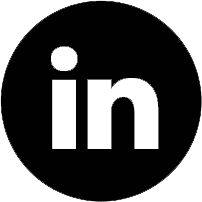
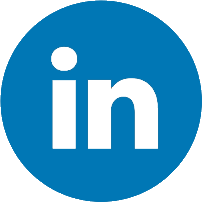
polish 3

diff --git a/src/main/resources/static/app/views/pages/about-us.html b/src/main/resources/static/app/views/pages/about-us.html
@@ -37,82 +37,93 @@
 </div>
     <div class="blitoTeamContainer row ">
         <div class="person col-xs-12 col-md-3 ">
-            <div class="blitoTeamPicturebeautifier3">
             <div class="blitoTeamPicturebeautifier">
                 <div class="blitoTeamPicturebeautifier2">
-                    <img src="../../../assets/img/sia.jpg" class="blitoTeamPictureHolder">
-                     
+                    <a target="_blank" href="https://www.linkedin.com/in/behnood-foroudi-28ba62131/">
+                        <img src="../../../assets/img/behnoud.jpg" class="blitoTeamPictureHolder"/>
+                        <img src="../../../assets/img/linkdin.png" class="linkdin "/></a>
                 </div>
                 </div>
-            </div>
-            <h4>سیاوششششش</h4>
-            <p>مدیریت اماکن مذهبی</p>
+            <h4>بهنود فرودی</h4>
+            <p>مدیر عامل</p>
         </div>
+
 
         <div class="person col-xs-12 col-md-3 ">
             <div class="blitoTeamPicturebeautifier">
                 <div class="blitoTeamPicturebeautifier2">
-                    <img src="../../../assets/img/sia.jpg" class="blitoTeamPictureHolder"/>
-                     
+
+                    <a target="_blank" href="https://www.linkedin.com/in/poorya-rooholamini-a36674127/">
+                        <img src="../../../assets/img/poorya.jpg" class="blitoTeamPictureHolder"/>
+                        <img src="../../../assets/img/linkdin.png" class="linkdin "/></a>
+
                 </div>
-            </div>
-            <h4>سیاوششششش</h4>
-            <p>مدیریت اماکن مذهبی</p>
+                </div>
+            <h4>پوریا روح الامینی</h4>
+            <p>مدیر کسب و کار</p>
         </div>
 
         <div class="person col-md-3 col-xs-12">
             <div class="blitoTeamPicturebeautifier">
                 <div class="blitoTeamPicturebeautifier2">
-                    <a>
-                    <img src="../../../assets/img/sia.jpg" class="blitoTeamPictureHolder"/>
+                    <a target="blank" href="https://www.linkedin.com/in/farzam-vatanzadeh/">
+                    <img src="../../../assets/img/farzam.jpg" class="blitoTeamPictureHolder"/>
                     <img src="../../../assets/img/linkdin.png" class="linkdin "/></a>
 
                 </div>
             </div>
-            <h4>سیاوششششش</h4>
-            <p>مدیریت اماکن مذهبی</p>
+            <h4>فرزام وطن زاده</h4>
+            <p>مدیر فنی</p>
         </div>
     </div>
     <div class="blitoTeamContainer2 marginRight0 row ">
 <div class="person col-md-3 col-xs-12">
         <div class="blitoTeamPicturebeautifier">
         <div class="blitoTeamPicturebeautifier2">
-        <img src="../../../assets/img/sia.jpg" class="blitoTeamPictureHolder"/>
-        
+            <a target="_blank" href="https://www.linkedin.com/in/soroush-yousefi-02783849/">
+                <img src="../../../assets/img/soroush.jpg" class="blitoTeamPictureHolder"/>
+                <img src="../../../assets/img/linkdin.png" class="linkdin "/></a>
+
         </div>
         </div>
-        <h4>سیاوششششش</h4>
-        <p>مدیریت اماکن مذهبی</p>
+        <h4>سروش یوسفی</h4>
+        <p> UX و UI  طراح و توسعه دهنده </p>
 </div>
 <div class="person col-md-3 col-xs-12">
         <div class="blitoTeamPicturebeautifier">
         <div class="blitoTeamPicturebeautifier2">
-        <img src="../../../assets/img/sia.jpg" class="blitoTeamPictureHolder"/>
-         
+            <a target="_blank" href="https://www.linkedin.com/in/siaalmo">
+                <img src="../../../assets/img/sia.jpg" class="blitoTeamPictureHolder"/>
+                <img src="../../../assets/img/linkdin.png" class="linkdin "/></a>
+
         </div>
         </div>
-        <h4>سیاوششششش</h4>
-        <p>مدیریت اماکن مذهبی</p>
+        <h4>سیاوش علی محمدی</h4>
+        <p> UX و UI  طراح و توسعه دهنده </p>
 </div>
 <div class="person col-md-3 col-xs-12">
         <div class="blitoTeamPicturebeautifier">
         <div class="blitoTeamPicturebeautifier2">
-        <img src="../../../assets/img/sia.jpg" class="blitoTeamPictureHolder"/>
-         
+            <a target="_blank" href="https://www.linkedin.com/in/hasti-sahabi-954060a4/">
+                <img src="../../../assets/img/hasti.jpg" class="blitoTeamPictureHolder"/>
+                <img src="../../../assets/img/linkdin.png" class="linkdin "/></a>
+
         </div>
         </div>
-        <h4>سیاوششششش</h4>
-        <p>مدیریت اماکن مذهبی</p>
+        <h4>هستی سحابی</h4>
+        <p> back end توسعه دهنده</p>
 </div>
         <div class="person col-md-3 col-xs-12">
             <div class="blitoTeamPicturebeautifier">
                 <div class="blitoTeamPicturebeautifier2">
-                    <img src="../../../assets/img/sia.jpg" class="blitoTeamPictureHolder"/>
-                     
+                    <a target="_blank" href="https://www.linkedin.com/in/yalda-jalilvand">
+                        <img src="../../../assets/img/sia.jpg" class="blitoTeamPictureHolder"/>
+                        <img src="../../../assets/img/linkdin.png" class="linkdin" /></a>
+
                 </div>
             </div>
-            <h4>سیاوششششش</h4>
-            <p>مدیریت اماکن مذهبی</p>
+            <h4> یلدا جلیلوند</h4>
+            <p>مدیر هنری</p>
         </div>
 
     </div>

diff --git a/src/main/resources/static/assets/css/custom.css b/src/main/resources/static/assets/css/custom.css
@@ -281,6 +281,82 @@ button.slick-next {
 .btn-blito:hover {
     box-shadow: none;
 }
+.socialmedia{
+    background: rgb(252, 183, 49);
+    border-radius: 50%;
+    width:35px;
+    float:right;
+    height:35px !important;
+    margin-right:5px;
+    margin-left:5px;
+    margin-bottom: 4px;
+}
+/*.socialmedia:hover{*/
+    /*animation:socialmediaanimation 2s infinite ease-in-out both;*/
+/*}*/
+.instagram{
+     background: radial-gradient(circle farthest-corner at 32% 106%, rgb(255, 225, 125) 0%, rgb(255, 205, 105) 10%, rgb(250, 145, 55) 28%, rgb(235, 65, 65) 42%, transparent 82%), linear-gradient(135deg, rgb(35, 75, 215) 12%, rgb(195, 60, 190) 58%);
+     border-radius: 50%;
+     width:35px;
+     float:right;
+     height:35px !important;
+     opacity:0;
+     transition: .5s;
+ }
+.telegram{
+    background:#2ca5e0 ;
+    border-radius: 50%;
+    width:35px;
+    float:right;
+    height:35px !important;
+    opacity:0;
+    transition: .5s;
+}
+.aparat{
+    background:#ed145b ;
+    border-radius: 50%;
+    width:35px;
+    float:right;
+    height:35px !important;
+    opacity:0;
+    transition: .5s;
+}
+.twitter{
+    background:#3fcdfd ;
+    border-radius: 50%;
+    width:35px;
+    float:right;
+    height:35px !important;
+    opacity:0;
+    transition: .5s;
+}
+
+.socialmedia:hover span{
+    opacity:1;
+}
+.socialmedia:hover img{
+    filter:invert(100%);
+}
+/*@keyframes socialmediaanimation{*/
+    /*0% {transform:scale(1);}*/
+    /*50% {transform: scale(1.1);}*/
+    /*100% {transform: scale(1);}*/
+/*}*/
+.socialmediaHolder{
+    margin-bottom:15px;
+    border-top: 1px solid #444;
+    padding-top:15px;
+    padding-bottom: 0px;
+}
+.socialmediaHolder div{
+    width:200px;
+}
+.socialmedia img{
+    height: 70%;
+    margin-top: -56px;
+    margin-right: 5px;
+    transition: .5s;
+}
 .searchBarHomePage {
     margin: 0 auto;
 }
@@ -1586,7 +1662,7 @@ dir-pagination-controls ul {
 /*--------------------------------------*/
 footer {
     background-color:#303030;
-    min-height:350px;
+    /*min-height:350px;*/
     bottom: 0 !important;
 }
 footer h6 {
@@ -1741,6 +1817,7 @@ a{
 .eventListHeaderContainer{
     height: 110px;
     background:rgba(0,0,0,.5);
+    box-shadow: 2px 2px 5px #222;
 }
 /*#eventListOther:not(:active),*/
 /*#eventListCinema:not(:active),*/
@@ -2331,7 +2408,7 @@ a{
     opacity: 0;
     background:#444;
     border-radius: 50%;
-    border:3px solid rgb(252, 183, 49);
+    border:3px solid #fff;
     transition: .4s;
     margin-top:-120px;
     margin-left:70px;
@@ -2343,7 +2420,10 @@ a{
     margin-right: 12.5%;
 }
 .marginRight0{
-    margin-right: 0px;
+    margin-right: 0px !important;
+}
+.marginLeft0{
+    margin-left:0px !important;
 }
 .aboutUsText{
     width:70%;

diff --git a/src/main/resources/static/index.html b/src/main/resources/static/index.html
@@ -156,13 +156,33 @@
             <p><i class="fa fa-file-text-o"></i><a href="/term-of-use" class="footerAnchor footerP">قوانین بلیتو</a></p>
             <p><i class="fa fa-user-secret"></i><a href="/privacy-policy" class="footerAnchor footerP"> حریم خصوصی</a></p>
         </div>
+        <div class="col-xs-12 socialmediaHolder floatRight textAlignRight">
+            <div class="marginAuto">
+                <a class="socialmedia " href="https://www.instagram.com/blito.ir/">
+                    <span class="instagram"></span>
+                    <img class="displayInline"  src="https://gallery.mailchimp.com/ce18d4419816e1d60ec5a84b5/images/d0cf11b8-f7d3-4c59-8e62-91365dd175f9.png"/>
+                </a>
+                <a class="socialmedia"
+                   href="https://t.me/blito">
+                    <span class="telegram"></span>
+                    <img class="displayInline" src="https://gallery.mailchimp.com/ce18d4419816e1d60ec5a84b5/images/11b8524d-0856-4844-9786-b5aab92c9ea5.png"/></a>
+                <a class="socialmedia" href="https://twitter.com/blittoir?s=09">
+                    <span class="twitter"></span>
+                    <img class="displayInline" src="https://gallery.mailchimp.com/ce18d4419816e1d60ec5a84b5/images/3a457013-f475-4d11-8c98-76f42a25d8e5.png"/>
+                </a>
+                <a class="socialmedia" href="http://www.aparat.com/blito">
+                    <span class="aparat"></span>
+                    <img class="displayInline" src="https://gallery.mailchimp.com/ce18d4419816e1d60ec5a84b5/images/b8d9fb6a-abeb-40c6-a425-1a88eb44b7cb.png"/>
+                </a>
+            </div>
+        </div>
+    </div>
         <!--<div class="col-md-4 col-sm-4 paddingtop-bottom footerleft floatRight textAlignRight">-->
-            <!--<div class="logofooter">-->
-            <!--</div>-->
+        <!--<div class="logofooter">-->
+        <!--</div>-->
         <!--</div>-->
 
 
-    </div>
 </footer>
 <div ng-include="'app/views/partials/registerModal.html'"></div>
 <div ng-include="'app/views/partials/loading.html'"></div>

diff --git a/src/main/resources/static/app/views/pages/home.html b/src/main/resources/static/app/views/pages/home.html
@@ -282,7 +282,7 @@
 
     </div>
 
-    <div class="row textAlignRight imgRelative" >
+    <div class="row textAlignRight marginLeft0 imgRelative" >
         <div class="col-xs-12 col-sm-6 col-md-6 floatRight exchangeTicketText">
             <h2>آگهی بلیت</h2>
             <p>
